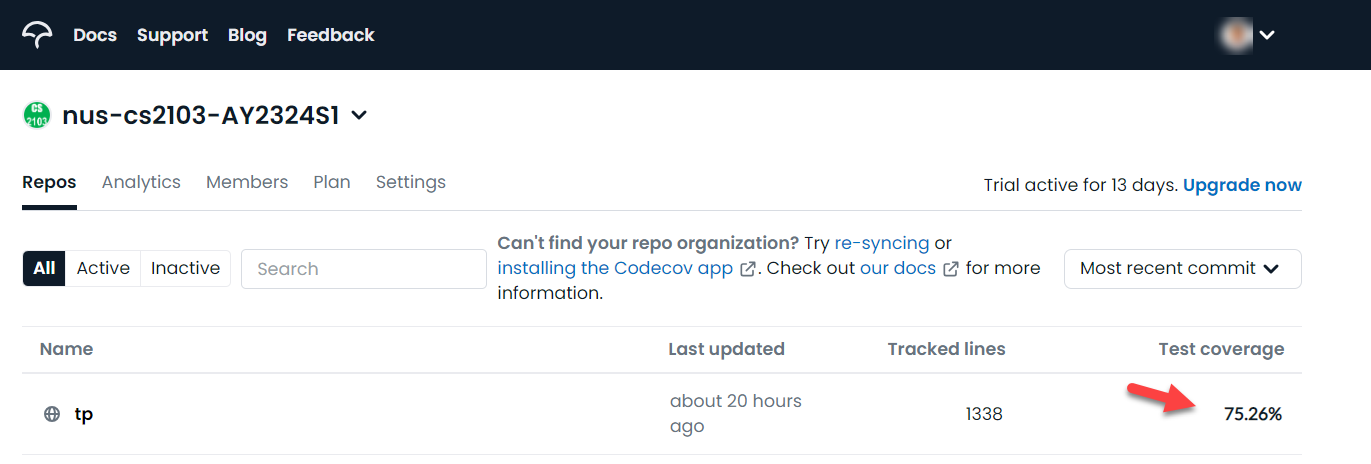
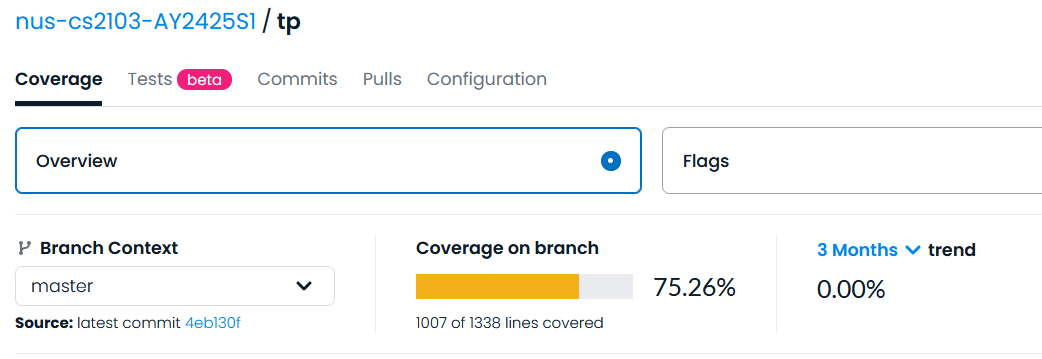
codecov: Update to match codecov website

diff --git a/tutorials/codecov.md b/tutorials/codecov.md
@@ -17,14 +17,20 @@ Scenario: You have forked a project that already had support for using Codecov i
 Given below are the steps for achieving the above, recommended to be done by someone who has admin access to the GitHub organization that contains the fork.
 
 1. [**Sign up for a Codecov account**](https://app.codecov.io/signup/) using your GitHub account.
-1. **Authorize Codecov to access your repo**: Go to [this page](https://github.com/settings/connections/applications/c68c81cbfd179a50784a), go to the ++Organization Access++ section, and click the <button type="button" class="btn btn-outline-primary btn-sm">grant</button> button in front of your GitHub org's name.<br>
-   If you don't have admin rights to the org in concern, you need to click on the <button type="button" class="btn btn-outline-primary btn-sm">request</button> button instead, and wait for an admin to approve the request.
-1. **Sync your repo list in Codecov:** Login to [Codecov](https://app.codecov.io) using your GitHub account. Ensure your `org/fork` is listed in the home page. If not, use the `re-syncing` link to sync Codecov data with GitHub (and refresh the page afterward). Try again if it doesn't work the first time, as syncing might take some time.<br>
-  If the organization still fails to show up in the dropdown, you can also try the `Add GitHub organization` link at the bottom of the dropdown list. Doing so will allow you to install the Codecov integration on your GitHub organization, which is same as the next step.
-1. **Install the Codecov integration on GitHub:** Go to [this page](https://github.com/apps/codecov) and click on the green <button type="button" class="btn btn-success btn-sm">Install</button> button. In the next steps, choose the org and the fork you want to set up Codecov for (you can also use the `All repositories` option instead).
-1. **Configure Codecov for the specific fork:** Go to `https://app.codecov.io/gh/{YOUR_ORG}` (e.g., `https://app.codecov.io/gh/my-team-org`).<br>
-   Choose the `Setup repo>` option for your fork, and follow the instructions for GitHub Actions. You will need to set up the `CODECOV_TOKEN` secret as instructed but there is ==no need to update the workflow YAML file== (as the repo you forked already has a YAML file containing the given code).
-1. **Check for coverage status:** Go back to [your Codecov home page](https://app.codecov.io/gh). After the next time CI runs in your fork, you should see the code coverage percentage in front of your fork name. Here is an example:
+1. **Install the Codecov integration on GitHub:**:
+   1. Go to [this page](https://github.com/apps/codecov) and click on the green <button type="button" class="btn btn-success btn-sm">Install</button> button.
+   1. In the next page, select your GitHub organization
+   1. In the next page, choose the `Only select repositories` and choose your repo (you can also use the `All repositories` option instead). After that, click the <button type="button" class="btn btn-success btn-sm">Install</button>.<br>
+      <pic src="images/codecov/select-repo.png" width="400" />
+1. **Sync your repo list in Codecov:** Login to [Codecov](https://app.codecov.io) using your GitHub account. Ensure your `org/fork` is listed in the home page. If not, use the `re-syncing` link to sync Codecov data with GitHub (and refresh the page afterward).<br>
+  If the organization still fails to show up in the dropdown, proceed to the next step anyway (it's likely the syncing is done but the UI is not showing it).
+1. **Configure Codecov for the specific fork:**
+   1. Go to `https://app.codecov.io/gh/{YOUR_ORG}` (e.g., `https://app.codecov.io/gh/my-team-org`).
+   1. Click the <button type="button" class="btn btn-primary btn-sm">Configure</button> option for your fork, and follow the instructions for GitHub Actions.<br>
+      You can skip the `Step 1: Generate and upload coverage reports in your CI`, as it is already set up in your repo.<br>
+      But you still need to do steps 2 i.e., set up the `CODECOV_TOKEN` secret as instructed but there.<br>
+      You can skip step 3 as well.
+1. **Check for coverage status:** Go back to [your Codecov home page](https://app.codecov.io/gh), choose the org and click on the repo name. After the next time CI runs in your fork, you should see the code coverage percentage in front of your fork name. Here is an example:
    <pic src="images/codecov/coverage-example.png"/>
 1. **Display the Codecov badge:** If your fork has a badge showing the Codecov status (e.g, ![codecov](https://codecov.io/gh/se-edu/addressbook-level3/branch/master/graph/badge.svg)), get the Markdown code for the Codecov badge provided in `https://app.codecov.io/gh/{YOUR_ORG}/{YOUR_FORK}/settings/badge` (e.g., `https://app.codecov.io/gh/se-edu/addressbook-level3/settings/badge`) and update the appropriate page in your fork.
 
